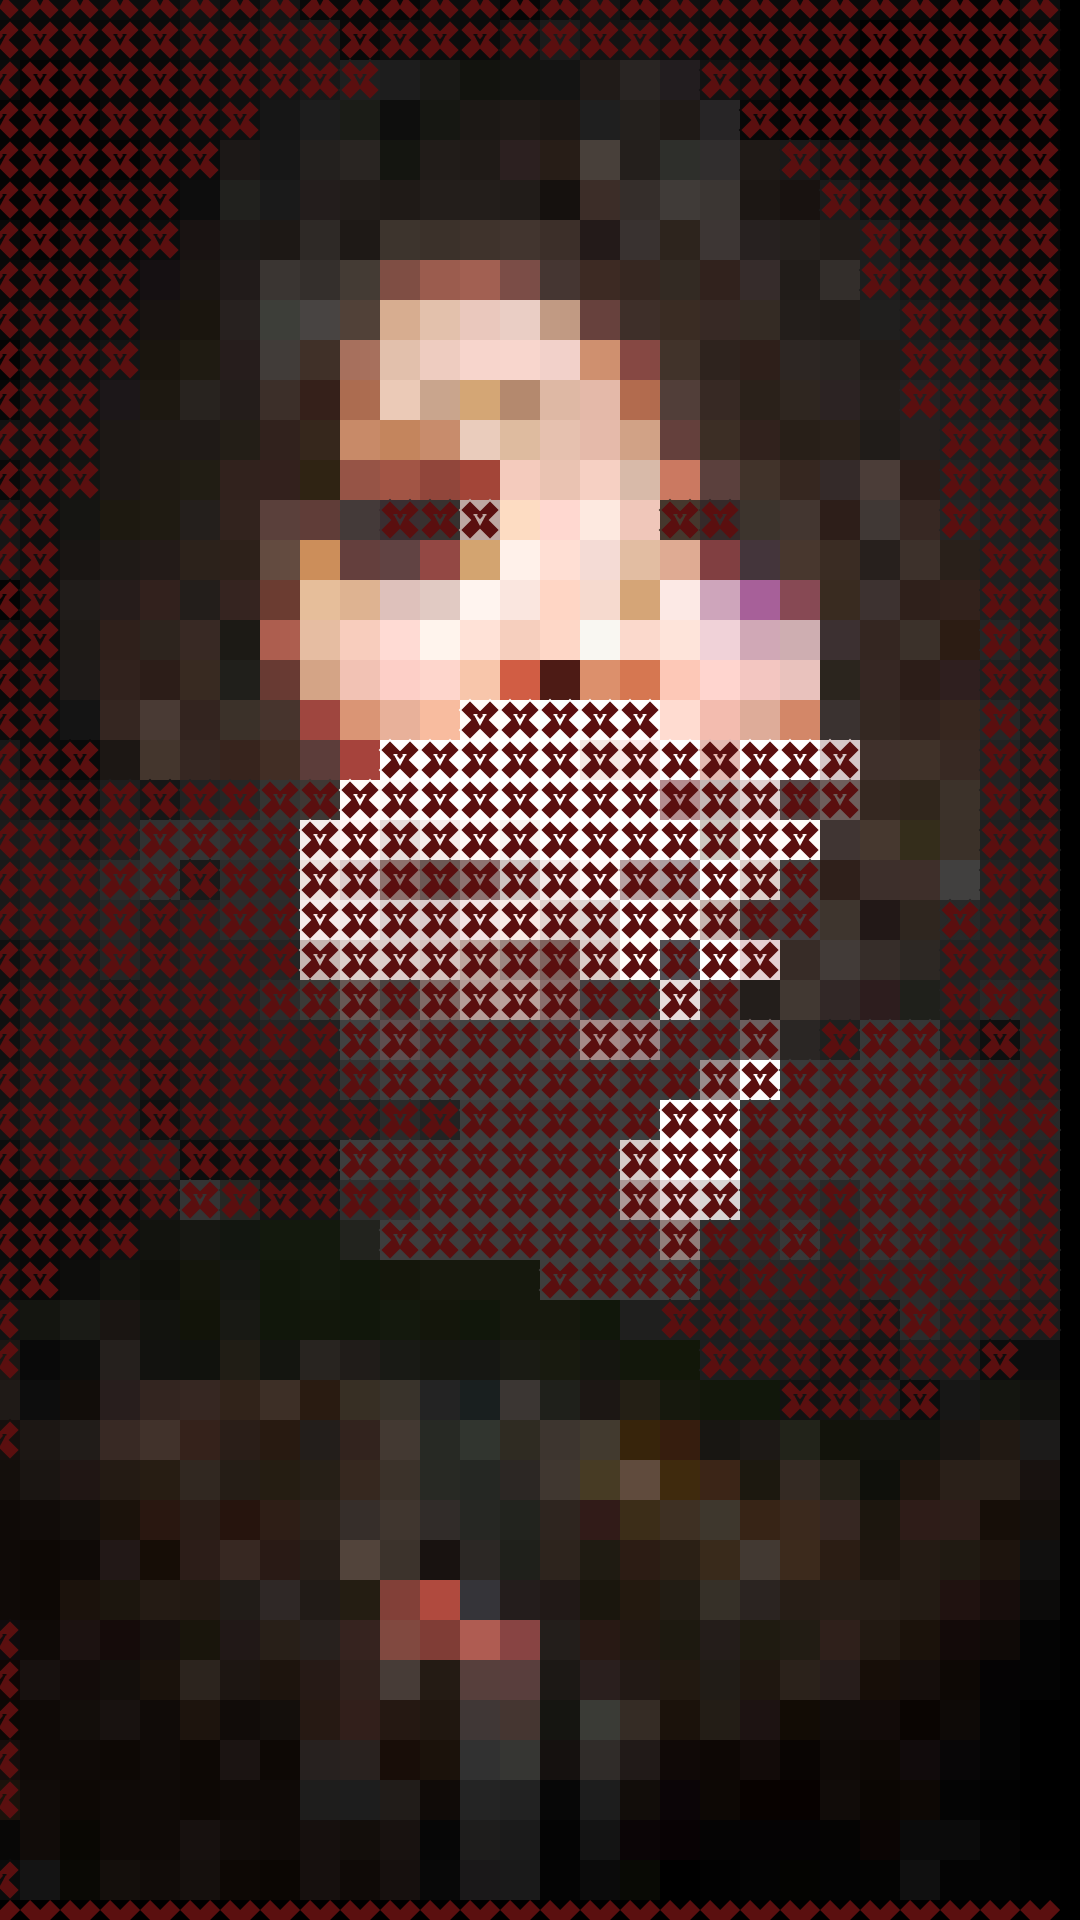
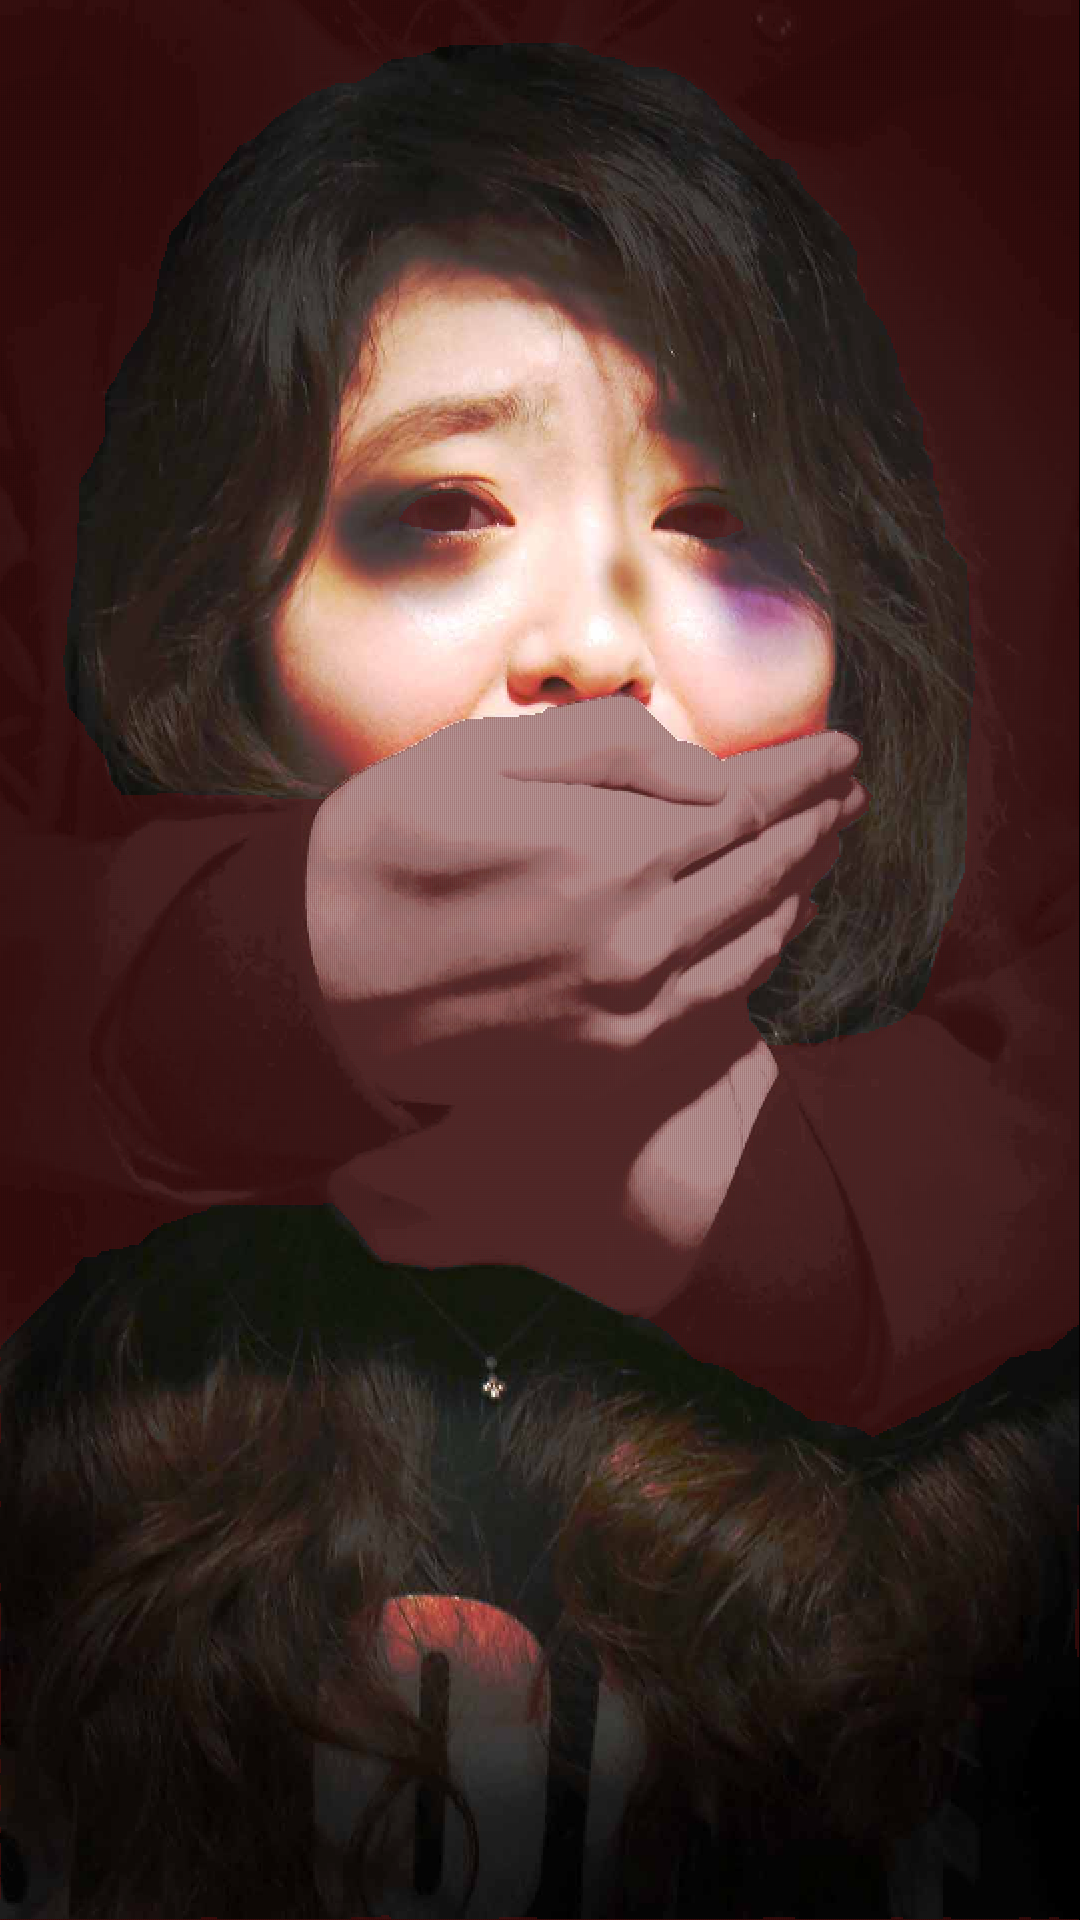
update final 01

diff --git a/sketch.js b/sketch.js
@@ -8,9 +8,9 @@ let colorSquareSize = 40;
 
 /* Override some variables with high-resolution final version*/
 if (finalVersion){
-  elementSpacing = 5;
-  squareSize = 5;
-  colorSquareSize = 5;
+  elementSpacing = 2;
+  squareSize = 2;
+  colorSquareSize = 2;
 }
 
 let sourceImg=null;
@@ -18,8 +18,8 @@ let maskImg=null;
 let curRow=0;
 
 function preload() {
-  sourceImg = loadImage("input_2.jpg");
-  maskImg = loadImage("mask_2.png");
+  sourceImg = loadImage("input_3.jpg");
+  maskImg = loadImage("mask_3.png");
 }
 
 function setup () {

diff --git a/README.md b/README.md
@@ -1,5 +1,7 @@
 ## Creative Coding 2: Custom Pixel
 
+I applied elementSpacing in 10 to input_1, 5 to input_2 and 2 to input_3. Just want to find the best scale for my project.
+
 Part 4:
 Tried the smart mask. It is a good tool but not really work on my project. Becasue my photos are simple and have some effects on them. So I think I will just use my original masks for this project.
 
